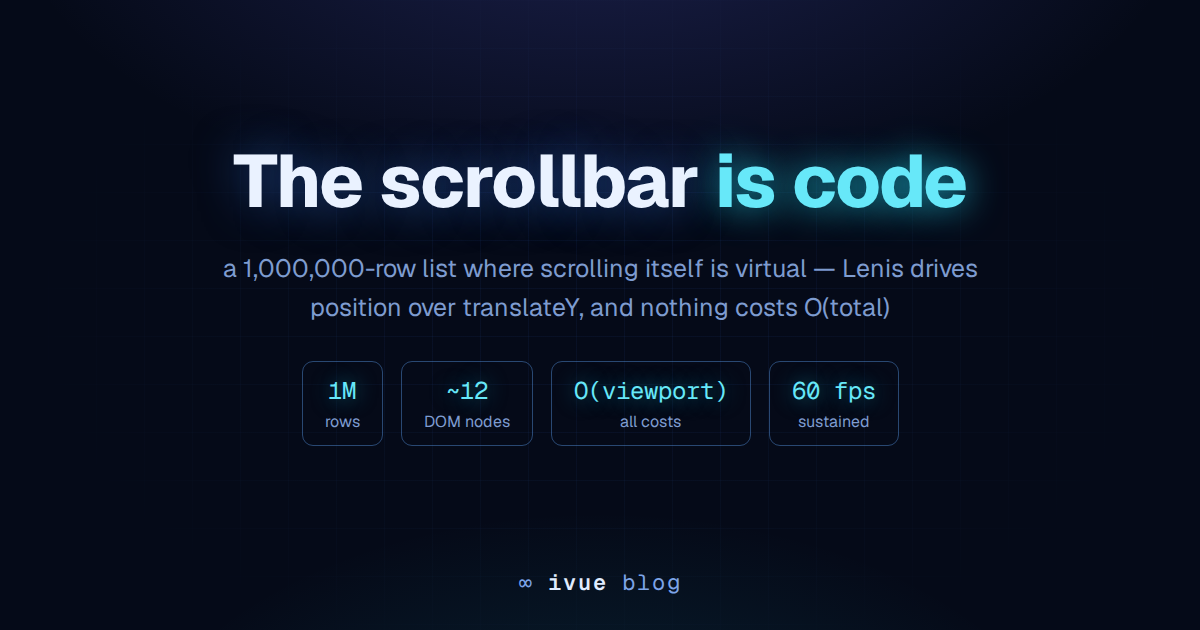
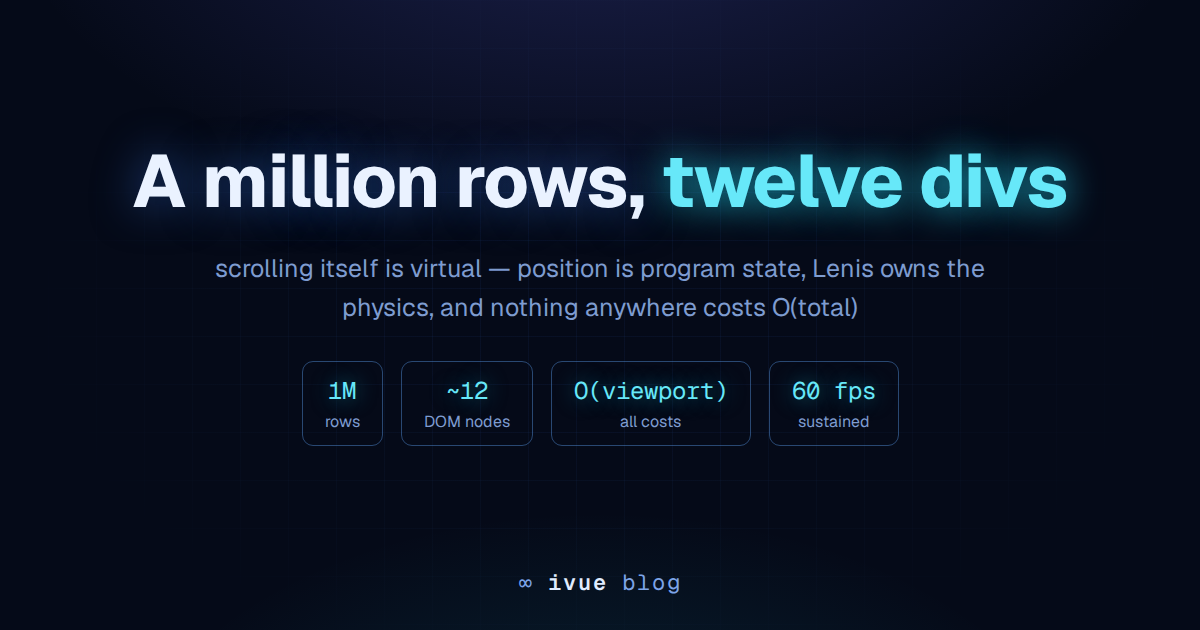
blog: 'A million rows, twelve divs' — retitled, expanded, linked to its example; heresy tone retired
Same slug (URL is published). Article now covers why native scroll
cannot do it, position-as-program-state, the converging estimate
architecture, and the real 1,199-line class by name — linking to
/examples/virtual-scroller instead of the Examples overview. The
'heresy' framing becomes measured language in both posts + banner.

Changed region(s): [[0.0925, 0.2413, 0.8942, 0.3619], [0.185, 0.3921, 0.8325, 0.5127]]

diff --git a/.claude/skills/blog-banner/banners/scrollbar-is-code.html b/.claude/skills/blog-banner/banners/scrollbar-is-code.html
@@ -79,8 +79,8 @@
 <body>
   <div class="grid"></div>
   <div class="stage">
-    <div class="title">The scrollbar <span class="glow">is code</span></div>
-    <div class="sub">a 1,000,000-row list where scrolling itself is virtual — Lenis drives<br/>position over translateY, and nothing costs O(total)</div>
+    <div class="title">A million rows, <span class="glow">twelve divs</span></div>
+    <div class="sub">scrolling itself is virtual — position is program state, Lenis owns the<br/>physics, and nothing anywhere costs O(total)</div>
     <div class="stats">
       <div class="stat"><span class="n">1M</span><span class="l">rows</span></div>
       <div class="stat"><span class="n">~12</span><span class="l">DOM nodes</span></div>

diff --git a/.claude/skills/blog-banner/banners/computed-is-a-cache.html b/.claude/skills/blog-banner/banners/computed-is-a-cache.html
@@ -79,7 +79,7 @@
 <body>
   <div class="grid"></div>
   <div class="stage">
-    <div class="eyebrow">THE HERESY</div>
+    <div class="eyebrow">THE UNEXAMINED DEFAULT</div>
     <div class="title">computed() is a <span class="glow">cache</span>, not a derivation</div>
     <div class="sub">Vue's derivation primitive was always the tracked read —<br/>memoizing everything by default was never neutral, just unexamined</div>
     <div class="stats">

diff --git a/docs_v2/blog/scrollbar-is-code.md b/docs_v2/blog/scrollbar-is-code.md
@@ -1,6 +1,6 @@
 ---
-title: "The scrollbar is code"
-description: A 1,000,000-row list where scrolling itself is virtual — Lenis drives position over translateY, the DOM holds a dozen rows, and nothing costs O(total).
+title: 'A million rows, twelve divs'
+description: A 1,000,000-row list where scrolling itself is virtual — Lenis owns position and momentum, the DOM holds a dozen rows between two spacers, and every operation is O(window). One 1,199-line ivue class runs all of it, live on this page.
 date: 2026-07
 ---
 
@@ -8,41 +8,98 @@ date: 2026-07
 import ExampleVirtualScroller from '../.vitepress/theme/components/examples/ExampleVirtualScroller.vue'
 </script>
 
-# The scrollbar is code
+# A million rows, twelve divs
 
-![The scrollbar is code](/blog/scrollbar-is-code.png)
+![A million rows, twelve divs](/blog/scrollbar-is-code.png)
 
-The browser's scrollbar has one requirement you cannot negotiate away: to
-scroll a tall document natively, the DOM has to *be* tall. At a million
-rows that means a fifty-million-pixel layer the compositor must carry,
-native scroll anchoring fighting your virtualization, and physics you
-don't control.
+The browser's native scrollbar has one requirement you cannot negotiate
+away: to scroll a tall document, the DOM has to *be* tall. Scroll
+position is a fraction of real layout height — there is no native way to
+say "behave as if this list were fifty million pixels" without building
+fifty million pixels.
 
-So this million-row list fires the browser from the job. Scrolling is **virtual**: a
-customized [Lenis](https://github.com/darkroomengineering/lenis) owns
-position, momentum and touch feel, driving a `translateY` — while the DOM
-holds a dozen rows between two spacer `div`s. The scroll range comes from
-a *computed* content height, not from the DOM; the compositor layer stays
-small no matter how long the list claims to be. Wheel through it, jump to
-the middle, and watch the rows-in-DOM counter hold:
+At a million rows, that requirement stops being expensive and starts
+being impossible. A million rows at ~50 px each is a fifty-million-pixel
+strip — beyond the layout-height caps some engines enforce outright, and
+past the point where any of them behave well. Long before the cap you
+pay for it: a giant compositor layer scrolled on the browser's schedule,
+native scroll anchoring fighting your row recycling, rubber-banding and
+momentum physics you cannot see into, and a scrollbar thumb whose
+geometry the browser owns.
+
+So this list fires the browser from the job.
+
+> Scroll position stops being a byproduct of layout and becomes program
+> state — one number the application owns. Everything downstream of that
+> number is derivation.
+
+**Scrolling is virtual.** A customized
+[Lenis](https://github.com/darkroomengineering/lenis) synthesizes the
+physics — wheel, touch, momentum, easing — and writes a single position
+value. That value drives a `translateY` on a thin strip of real rows;
+the scroll *range* comes from a computed content height, not from any
+element's size. The DOM holds about a dozen rows between two spacer
+`div`s, and the compositor layer stays small no matter how long the
+list claims to be. Wheel through it, drag the bar, jump to the middle —
+and watch the rows-in-DOM counter hold:
 
 <ClientOnly>
   <ExampleVirtualScroller />
 </ClientOnly>
 
-The estimates architecture is the readable part: an item's position is a
-prefix sum over measured heights that is **never materialized as an
-array** — a movable cursor evaluates it lazily, heights are captured
-one-shot as rows enter and leave the window, and every operation is
-O(window), never O(total). The jump-to-row landing visibly *converges* as
-the fresh window measures in — an estimate refined by reality, in front
-of you.
+## The estimate that converges
 
-All of it lives on **one ivue class**: template refs, prop refs, scroll
-state, the windowing math, the Lenis lifecycle — constructed in
-`setup()` and torn down by the component scope. This is not a demo component; it's extracted from
-production, where it drives feeds this size daily.
+Rows have real, varying heights — but measuring a million of them up
+front would be O(total), the exact cost this design exists to refuse.
+The resolution is an architecture of estimates:
 
-The full tabbed source — the ~1,200-line class included — is on the
-[Examples page](/examples/), with an Open-in-StackBlitz link that runs the
-standalone app straight from the repo.
+- **A row's position is a prefix sum over measured heights that is
+  never materialized as an array.** A movable cursor evaluates it
+  lazily from the nearest known point — ask for row 612,400 and it
+  walks estimates, not memory.
+- **Heights are captured one-shot** as rows enter the window; a row the
+  user never reaches is never measured, and a measured row never pays
+  again.
+- **Every operation is O(window).** Scrolling, jumping, resizing,
+  re-measuring — cost tracks the dozen rows on screen, never the
+  million in the model.
+
+The honest consequence is visible in the demo: jump deep into the list
+and the landing *converges* — the fresh window measures in, the
+estimate corrects, the rows settle. An estimate refined by reality,
+in front of you, in two frames. That is not a glitch being hidden; it
+is the contract being kept: precision is paid for exactly where the
+user is looking, nowhere else.
+
+## One class runs all of it
+
+Everything above lives on **one ivue class** — 1,199 lines,
+`VirtualScroller`, exported through the
+[namespace pattern](/guide/namespace-pattern) like everything else:
+
+- **Template refs** (`scrollElement`, `itemsWrapperElement`) as
+  ref-getters the SFC destructures for `ref=""` bindings.
+- **Prop reads** (`items`, `assumedHeight`, `paddingQuantity`) as plain
+  getters — leaf-tracked, zero bytes per instance.
+- **Derived geometry** — `estimatedItemHeight`, the leading and
+  trailing spacer heights, `scrollHeight`, `visibleItems` — as plain
+  getters over the measurement state, recomputed only when a
+  `geometryVersion` signal says the ground truth moved: the
+  [keyed-version-signal pattern](/guide/keyed-version-signals) keeping
+  a million-item model out of the dependency graph.
+- **The Lenis lifecycle** in the constructor — which runs synchronously
+  in `setup()`, so the whole thing wires against the component and is
+  torn down by the component scope on unmount. No `init()`, no
+  `dispose()` to forget.
+
+This is not a demo component. The class is extracted from production,
+where it drives feeds this size daily — the blog post is the tour, and
+the machine is real.
+
+## Run it, read it, fork it
+
+The full tabbed source — the 1,199-line class, the SFCs, the types — is
+on the [Virtual Scroller example page](/examples/virtual-scroller),
+with an Open-in-StackBlitz link that boots the standalone app straight
+from the repo. The demo above and that page import the same files: what
+you read is what just scrolled.

diff --git a/docs_v2/blog/introducing-ivue.md b/docs_v2/blog/introducing-ivue.md
@@ -78,7 +78,7 @@ decision is the eviction notice:
 > A class is a reactive unit — a store, a view-model, a domain entity —
 > usable anywhere. It is never itself a component.
 
-## The heresy about `computed()`
+## The `computed()` assumption
 
 Along the way, one more assumption refused to survive measurement:
 that `computed()` is how you derive values. It isn't. Vue's actual

diff --git a/docs_v2/blog/computed-is-a-cache.md b/docs_v2/blog/computed-is-a-cache.md
@@ -51,5 +51,5 @@ render suppression on equal values, a stable ref handle — and let the
 tracked read do what it always did.
 
 The full argument, with the engine internals:
-[The Engine](/engine). The heresy is
+[The Engine](/engine). The claim is
 measured, not rhetorical.
